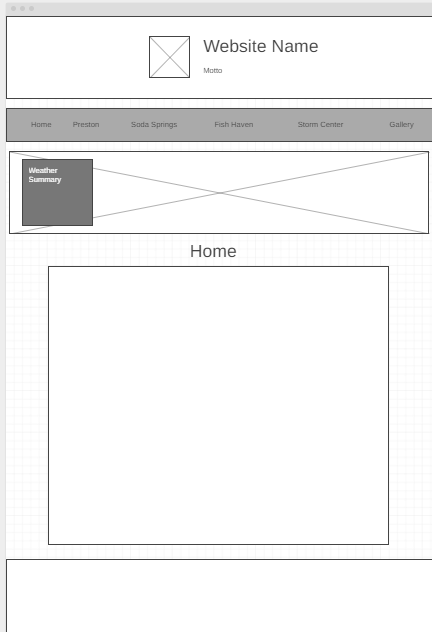
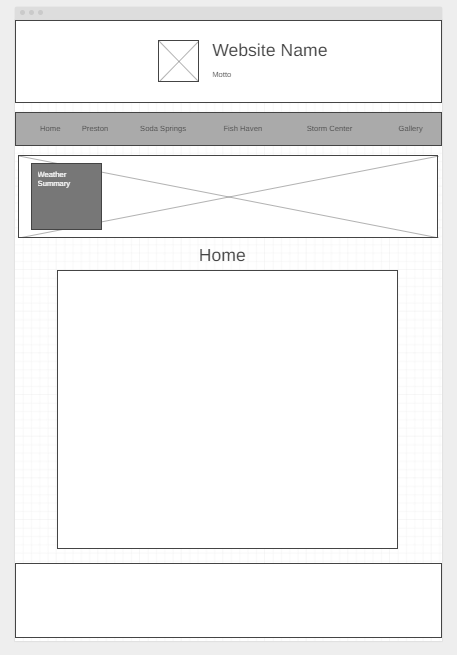
css for wireframes

Changed region(s): [[0.0, 0.0, 1.0, 0.9921], [0.2708, 0.2706, 0.7222, 0.3307]]

diff --git a/lesson9/home page/home-wireframes.html b/lesson9/home page/home-wireframes.html
@@ -6,9 +6,16 @@
     <meta name="viewport" content="width=device-width, initial-scale=1.0">
     <meta name="description" content="Wireframe illustrations for website">
     <title>Wireframes</title>
+
+    <!-- Stylesheets -->
+    <link rel="stylesheet" href="css/normalize.css">
+    <link rel="stylesheet" href="css/small.css">
 </head>
 <body>
-    <picture>
+    <header>
+        <h1>Wireframes for Home Page</h1>
+    </header>
+    <picture class="wire">
         <img src="images/wireframes/wireframe-largeview.png" alt="Wireframe for large view">
     </picture>
 </body>

diff --git a/lesson9/home page/css/small.css b/lesson9/home page/css/small.css
@@ -139,6 +139,15 @@ main section.cards div img {
     margin: auto 5%;
 }
 
+/*------------ WIREFRAMES ------------*/
+
+picture.wire {
+    display: flex;
+    justify-content: center;
+    align-content: center;
+    margin: 16px auto;
+}
+
 /*------------ FOOTER ------------*/
 footer {
     display: flex;
